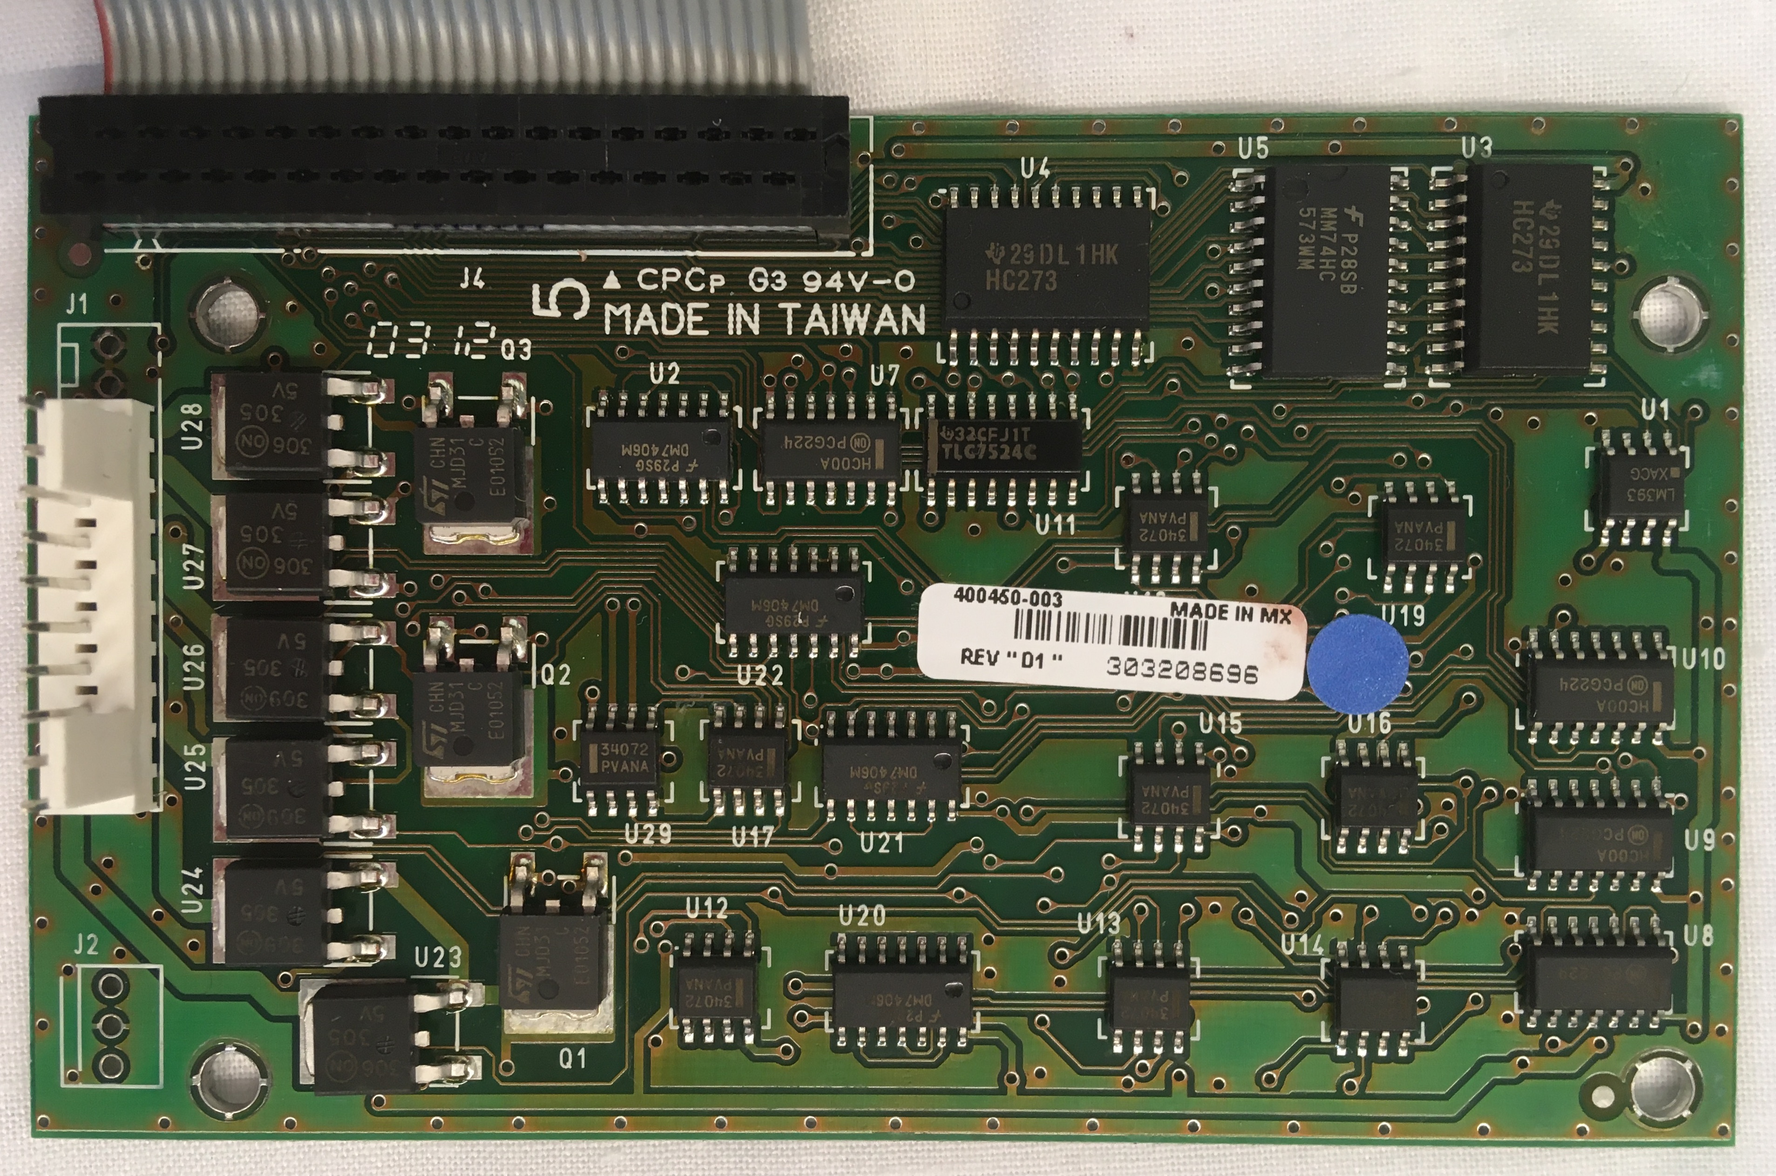
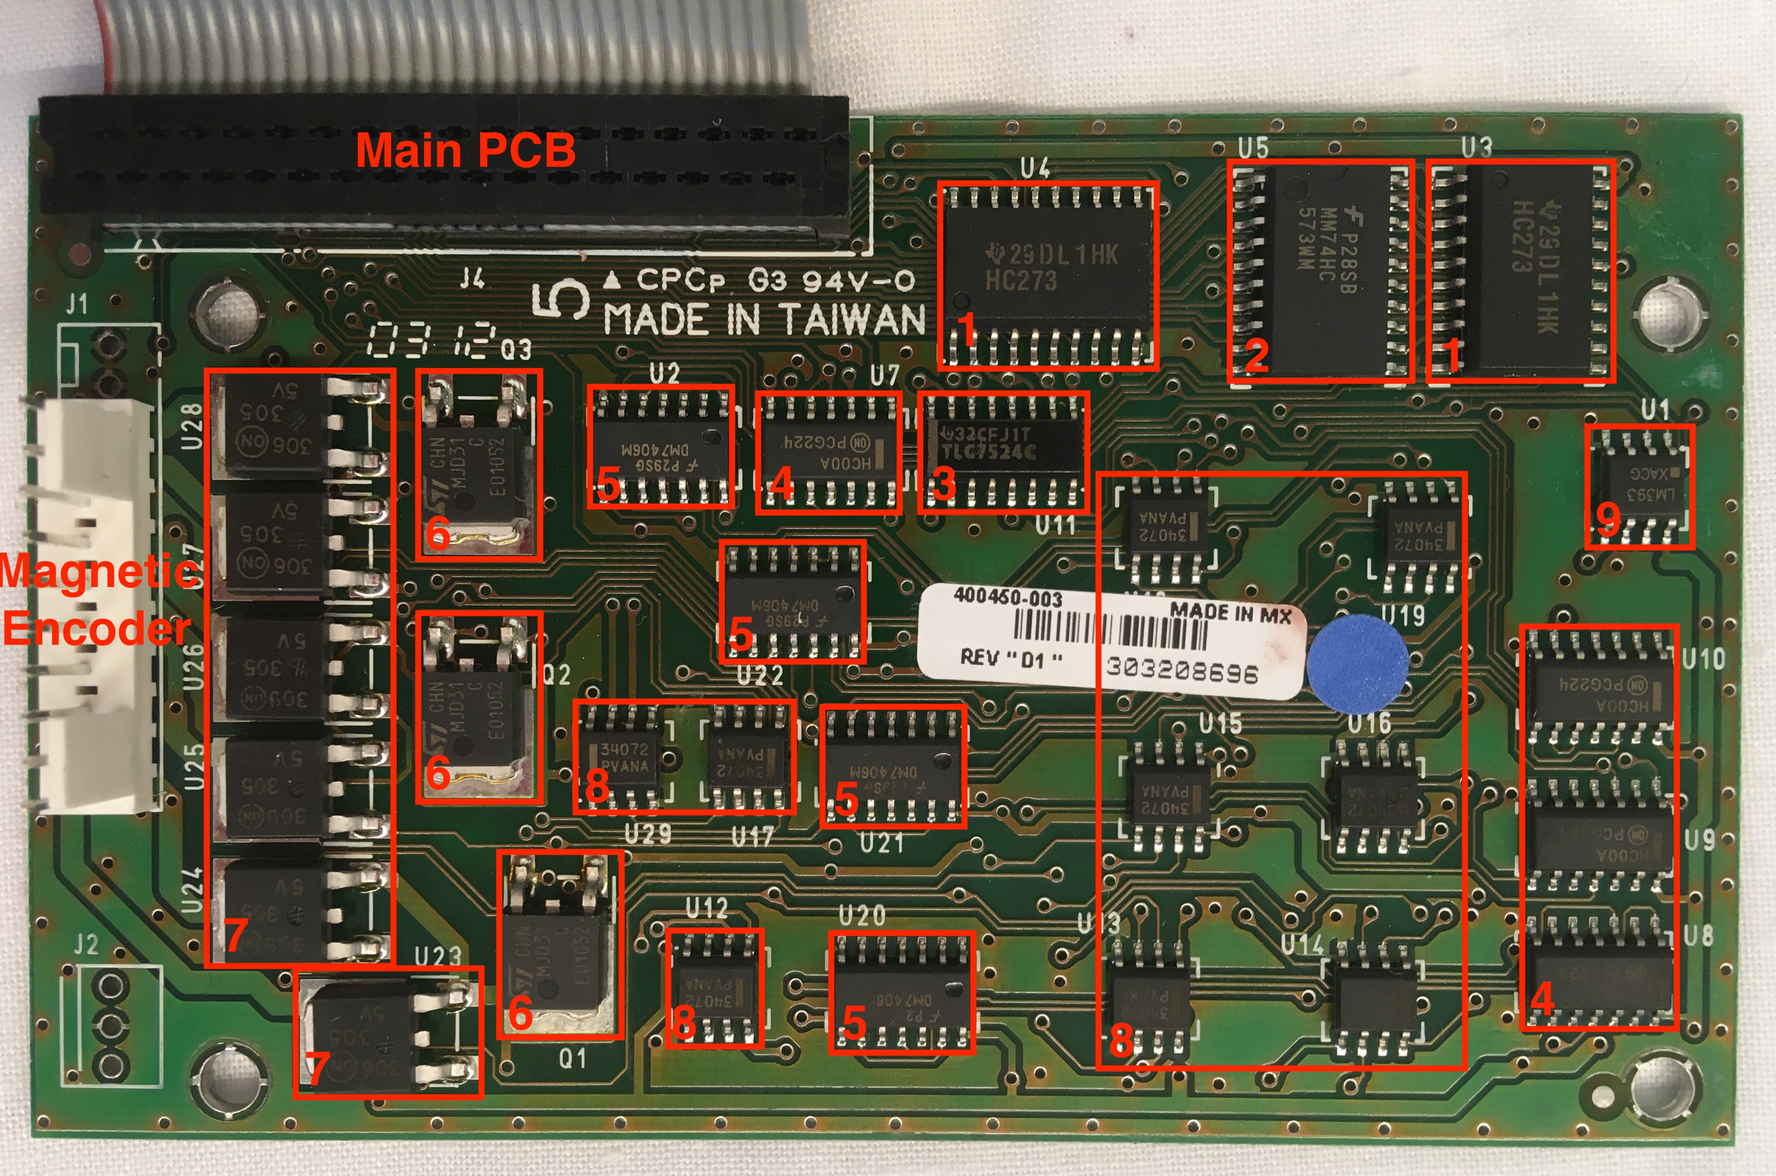
finished side PCB....

diff --git a/teardowns/IDprinter.html b/teardowns/IDprinter.html
@@ -89,7 +89,7 @@
 		</li>
 		<br>
 		<li><p>ON Semiconductor HCT574A Octal Register (<a href="https://www.onsemi.com/pdf/datasheet/mc74hct574a-d.pdf">datasheet</a>)</p>
-			<p>&emsp;&emsp;The full name of this component in the datasheet is actually "Octal 3-State Noninverting D Flip-Flop with LSTTL-Compatible Inputs". There's a lot to unpack in that name. "Octal" indicates that the register includes eight "D Flip-Flop" circuits. The D-type flip-flop circuit is a type of circuit using several logic circuits (i.e. AND, OR, NAND, NOR) to store or latch onto a binary value (1 or 0) even when the input changes. Each flip-flop will only take in a new value during the next clock cycle triggered by a clock pin connected to the register. "3-State" indicates that the outputs can be high (1), low (0), or a high impedance state which effectively disables the output from affecting anything downstream (i.e. disconnected from output bus). This special high impedance state is triggered on all flip-flops when the output enable pin on the register is set high. "Non-inverting" means that when data is read in, the same signal is then sent out. An inverting register would flip all of the binary input data, 1s would become 0s and 0s would becomes 1s. "LSTTL" stands for Low Power Schottky Transistor-Transitor Logic and likely some modification was required to make the register compatible with this more advanced lower power transistor-transistor logic (TTL) as compared to previous forms of TTL. TTL&mdash;which includes AND, OR, NAND, and NOR logic&mdash;forms the basic foundations for all computer operations. These conditional logic gates are each composed of a pair of transistors, hence the name "transistor-transistor logic".</p>
+			<p>&emsp;&emsp;The full name of this component in the datasheet is actually "Octal 3-State Noninverting D Flip-Flop with LSTTL-Compatible Inputs". There's a lot to unpack in that name. "Octal" indicates that the register includes eight "D Flip-Flop" circuits. The D-type flip-flop circuit is a type of circuit using several logic circuits (i.e. AND, OR, NAND, NOR) to store or latch onto a binary value (1 or 0) even when the input changes. Each flip-flop will only take in a new value during the next clock cycle triggered by a clock pin connected to the register. I found this <a href="https://www.youtube.com/watch?v=Hi7rK0hZnfc">YouTube video</a> helpful when trying to learn about D-type flip-flops. "3-State" indicates that the outputs can be high (1), low (0), or a high impedance state which effectively disables the output from affecting anything downstream (i.e. disconnected from output bus). This special high impedance state is triggered on all flip-flops when the output enable pin on the register is set high. "Non-inverting" means that when data is read in, the same signal is then sent out. An inverting register would flip all of the binary input data, 1s would become 0s and 0s would becomes 1s. "LSTTL" stands for Low Power Schottky Transistor-Transitor Logic and likely some modification was required to make the register compatible with this more advanced lower power transistor-transistor logic (TTL) as compared to previous forms of TTL. TTL&mdash;which includes AND, OR, NAND, and NOR logic&mdash;forms the basic foundations for all computer operations. These conditional logic gates are each composed of a pair of transistors, hence the name "transistor-transistor logic".</p>
 		</li>
 		<br>
 		<li><p>Fairchild Semiconductor HC574 Octal Register (<a href="https://www.onsemi.com/pdf/datasheet/74vhc574-d.pdf">datasheet</a>)</p>
@@ -125,11 +125,11 @@
 		</li>
 		<br>
 		<li><p>Analog Devices ADM202 CMOS Driver/Receiver (<a href="https://www.mouser.com/datasheet/2/609/ADM202-1503026.pdf">datasheet</a>)</p>
-			<p>&emsp;&emsp;The CMOS driver/receiver can transform a 5V input to a +/-10V output using a switching power supply type circuit. Unlike the tight surface mount appearance of many of the other ICs on this board, the through hole mounting of this component and its thicker body make it stand out along with a few other similarly shaped boards. Such a board with a rectangular body and parallel rows of pins on either side is often described as a Dual In-line Package (DIP). I'm not completely sure why, but the name DIP somehow sounds much more friendly and inviting than IC. Maybe it's because you can say it without having to spell it out.</p>
+			<p>&emsp;&emsp;The CMOS driver/receiver can transform a 5V input to a +/-10V output using a switching power supply type circuit. According to the technical manual, this board was responsible for the serial input/output communication with the computer connected to the board via the 25 pin connector. Unlike the tight surface mount appearance of many of the other ICs on this board, the through hole mounting of this component and its thicker body make it stand out along with a few other similarly shaped boards. Such a board with a rectangular body and parallel rows of pins on either side is often described as a Dual In-line Package (DIP). I'm not completely sure why, but the name DIP somehow sounds much more friendly and inviting than IC. Maybe it's because you can say it without having to spell it out.</p>
 		</li>
 		<br>
 		<li><p>ST Microelectronics L293B Push-Pull Four Channel Driver (<a href="https://www.mouser.com/datasheet/2/389/cd00000058-1795356.pdf">datasheet</a>)</p>
-			<p>&emsp;&emsp;The primary function of a driver is to control a high power (high voltage and high current) supply using low power logic signals. "Push-Pull" indicates that a push-pull amplifer circuit is included in this component to raise the output current so that the driver can output high power. The functionality of the push-pull and driver circuits are founded in transistors. For example, one transistor alone could be used as a driver by opening and closing a high power line in response to a control signal. A typical application of a driver is to drive motors&mdash;a high power application&mdash;using logic signals coming from a low power microcontroller or some such device. As there are four motors in the printer, it would seem likely that this four channel driver is used to drive the motors. The driver can drive the motors forward, backwards, or not at all.</p>
+			<p>&emsp;&emsp;The primary function of a driver is to control a high power (high voltage and high current) supply using low power logic signals. "Push-Pull" indicates that a push-pull amplifer circuit is included in this component to raise the output current so that the driver can output high power. The functionality of the push-pull and driver circuits are founded in transistors. For example, one transistor alone could be used as a driver by opening and closing a high power line in response to a control signal. A typical application of a driver is to drive motors&mdash;a high power application&mdash;using logic signals coming from a low power microcontroller or some such device. The driver can drive the motors forward, backwards, or not at all. As there are four motors in the printer, it would seem likely that this four channel driver is used to drive the motors. This hypothesis was confirmed upon later inspection of the over 100 page technical manual for this product. What an outstanding resource that technical manual was!</p>
 		</li>
 		<br>
 		<li><p>Texas Instruments LM339 Quad Differential Comparator (<a href="https://www.ti.com/lit/ds/symlink/lm339.pdf?ts=1624583768128&ref_url=https%253A%252F%252Fwww.ti.com%252Fproduct%252FLM339">datasheet</a>)</p>
@@ -150,7 +150,7 @@
 	</ol>
 	<br>
 	<p>&emsp;&emsp;I examined many of the ICs on this board in great depth, but not all of them. For many of the ICs, I either couldn't read the label or find information about the product by looking up the model number on the label. Furthermore, there were many other components besides the ICs which I haven't even mentioned. So before I conclude the discussion of the main PCB, I'd like to mention a few important components on this board. There are also several spots on the board that don't seem to be in use. These locations are possibly reserved for components used in other configurations of the printer. For example, there is a large MOSFET type spot with solder pads tinned, but empty. Additionally, a few of the ports weren't in use.</p>
-	<p>&emsp;&emsp;A large rectangular chip lies just below the Coldfire microcontroller with fine pitch connectors. Given these physical parameters and its proximity to the microcontroller, I would guess it's some sort of memory unit. At the bottom right corner of the board lies a long DIP with a heat sink attached on top. I'm not sure what this component does, but given how hot it must be getting maybe it's some sort of computational unit or driver for the heater. To the right of the DIP with heat sink is another voltage regulator looking component (could also be a MOSFET). If it's a voltage regulator, maybe it's used to step up the voltage for the heater. To the left of the DIP with heat sink is a large capacitor (25V 6800uF). Possibly this capacitor is used in conjunction with the heater to decouple its power draw from that of the main control board. In other words, if the heater demanded a high power draw, the capacitor would protect the control board from otherwise shutting down from the power surge. Above and below the motor driver are four diodes. Given their proximity to the motor driver, I would expect that one diode is connecting to the driving signal for each motor. Given the large inductive load of the motors, they will cause a power surge when stopped as a result of the back EMF generated by the motor coils. To prevent this power surge from damaging the transistors in the driver, the diodes provide an alternate path for the current to travel and dissipate. There are also a pair of crystal oscillators used to track time. Why there are a pair instead of just one, I cannot say.</p>
+	<p>&emsp;&emsp;A large rectangular chip lies just below the Coldfire microcontroller with fine pitch connectors. Given these physical parameters and its proximity to the microcontroller, I would guess it's some sort of memory unit. At the bottom right corner of the board lies a long DIP with a heat sink attached on top. Not being able to read the label, I initially wasn't sure what this component was. Nonetheless it seemed likely that it was some sort of computational unit or driver given how hot it was evidently getting. Thanks to the technical manual for the product, it was identified as the driver for the stepper motor. To the right of the DIP with heat sink is another voltage regulator looking component (could also be a MOSFET). If it's a voltage regulator, maybe it's used to step up the voltage for the heater. To the left of the DIP with heat sink is a large capacitor (25V 6800uF). Possibly this capacitor is used in conjunction with the heater to decouple its power draw from that of the main control board. In other words, if the heater demanded a high power draw, the capacitor would protect the control board from otherwise shutting down from the power surge. Above and below the motor driver are four diodes. Given their proximity to the motor driver, I would expect that one diode is connecting to the driving signal for each motor. Given the large inductive load of the motors, they will cause a power surge when stopped as a result of the back EMF generated by the motor coils. To prevent this power surge from damaging the transistors in the driver, the diodes provide an alternate path for the current to travel and dissipate. There are also a pair of crystal oscillators used to track time. Why there are a pair instead of just one, I cannot say.</p>
 	<p>&emsp;&emsp;For the components who's labels I could read and interpret, many of them used a similar labelling scheme. Typically, the model number was printed on one line and a manufacturing code printed on the line beneath it. The manufacturing code usually consisted of some letters&mdash;likely the location of a manufacturing facility&mdash;followed by some numbers&mdash;likely the date that product was manufactured. This date was often reported using a year-week scheme. For example, 0309 at the end of the microprocessor label to indicate the 9th work week of 2003.</p>
 	<img src="../images/teardowns/IDprinter/mainPCBback.jpg" alt="Many SMT components and One Red Wire Linking Components Across Board" class="center">
 	<p class="label">Main PCB - Bottom View</p>
@@ -167,6 +167,45 @@
 	<h3>Side PCB - for Magnetic Encoding</h3>
 	<img src="../images/teardowns/IDprinter/sidePCBfront.jpg" alt="Rectangular Green PCB with Many ICs and Transistors" class="center">
 	<p class="label">Side PCB - Top View</p>
+	<p>&emsp;&emsp;</p>
+	<ol type = "1">
+		<li><p>Texas Instruments HC273 Octal Register with Clear (<a href="https://www.ti.com/lit/ds/symlink/sn54hc273-sp.pdf?ts=1624806634909&ref_url=https%253A%252F%252Fwww.google.com%252F">datasheet</a>)</p>
+			<p>&emsp;&emsp;Like the octal registers we've seen before on the main PCB, this register contains eight D-type flip-flop circuits. Instead of having an output enable pin to trigger a third high impedance output state, the register has a clear pin. When activated this pin clears the outputs all to low and will hold them there regardless of new incoming input data. This pin has an active-low configuration (as opposed to active-high) indicating that the clearing functionality is activated when the clear pin is held low.</p>
+		</li>
+		<br>
+		<li><p>Fairchild Semiconductor MM74HC573WM Octal Register (<a href="https://www.jameco.com/Jameco/Products/ProdDS/872888.pdf">datasheet</a>)</p>
+			<p>&emsp;&emsp;This component appears functionally identical to the ON Semiconductor HC573 Octal Transparent Latch Register. It also contains an output enable pin (called "output control" this time) to trigger the high impedance state at the outputs and a latch enable pin to trigger when data is latched on to, stemming the flow of data from input to output.</p>
+		</li>
+		<br>
+		<li><p>Texas Instruments TLC7524C 8-bit DAC (<a href="https://www.ti.com/lit/ds/symlink/tlc7524.pdf?ts=1624808429398&ref_url=https%253A%252F%252Fwww.ti.com%252Fproduct%252FTLC7524">datasheet</a>)</p>
+			<p>&emsp;&emsp;This Digital-to-Analog Converter (DAC) converts an 8-bit digital (i.e. binary) signal to an analog signal (i.e. variable voltage). The 8 bit nature of this DAC means that it can output an analog signal with resolution to 256 different voltage steps. This DAC is possibly used to produce an output signal to generate a magnetic field with the appropriate magnitude during the magnetic encoding process. The DAC uses the R-2R ladder structure to exhibit its function, while also possessing a register to latch onto and store the eight bits of digital data as the analog signal is being generated. The basic principle of the R-2R ladder structure uses a cascade or "ladder" of resistor connections with relative magnitudes R and 2R. Digital signals introduced earlier in this ladder will contribute less to the output voltage signal as the voltage they output is progressively divided moving down the ladder. In other words, the digital signals introduced first compose the least significant bytes of the output signal.</p>
+		</li>
+		<br>
+		<li><p>ON Semiconductor HC00A Quadruple NAND Gate (<a href="https://www.onsemi.com/pdf/datasheet/mc74hc00a-d.pdf">datasheet</a>)</p>
+			<p>&emsp;&emsp;This quadruple NAND gate looks identical in pinout to the previous NAND gates discussed on the main control board. Each IC has 14 pins. Each NAND gate includes two input pins and one output pins, resulting in 12 pins for all four NAND gates. The final two pins are input voltage and ground pins.</p>
+		</li>
+		<br>
+		<li><p>Fairchild Semiconductor DM7406M Hex Inverter (<a href="https://www.jameco.com/Jameco/Products/ProdDS/49091.pdf">datasheet</a>)</p>
+			<p>&emsp;&emsp;This hex inverter looks identical in pinout to the previous hex inverter discussed on the main control board. Each IC has 14 pins. Each inverter includes one input pin and out output pin, resulting in 12 pins for all six inverters. The final two pins are input voltage and ground pins.</p>
+		</li>
+		<br>
+		<li><p>ST Microelectronics MJD31C NPN Power Transistor (<a href="https://alltransistors.com/adv/pdfview.php?doc=mjd31c.pdf&dire=_st">datasheet</a>)</p>
+			<p>&emsp;&emsp; There are many different types of transistors, but all make use of p-type and n-type semiconductors. P-type semiconductors are doped with certain compounds to have larger hole concentration than electron concentration while the opposite is true for n-type semiconductors. This results in the two types of semiconductors carrying different amounts of relative charge. In this NPN bipolar transistor, p-type semiconductor is sandwiched between n-type semiconductor as the name suggests. When no voltage is applied to the base pin of the transistor, current cannot flow through the transistor between the collector and emitter pins. However, when a small positive voltage is applied to the base pin, current is allowed to flow through the transistor from collector to emitter pins (convential current flow). On the other hand, its counterpart the PNP bipolar transistor only allows current to flow through the transistor when a negative voltage is applied to the base pin. It was interesting to note how this component was soldered to the board. Instead of soldering the middle pin of the transistor to a pad on the board, the middle was shortened and the conductive metal base of the transistor was soldered to the board. The datasheet described this manufacturing method as the "'base island' layout". This method appears slightly more difficult to assemble, but possibly results in better heat transfer properties away from the power transistor which is likely to get much hotter than a logical transistor as higher levels of current flow through it.</p>
+		</li>
+		<br>
+		<li><p>ON Semiconductor 5V Voltage Regulator</p>
+			<p>&emsp;&emsp;Although the numbered labels didn't return any information, the 5V label and component structure would seem to indicate that these products are 5V voltage regulators. An ON Semiconductor <a href="https://www.onsemi.com/pdf/datasheet/mc7800-d.pdf">datasheet</a> for 5V linear voltage regulators shows a very similar looking component seeming to confirm this hypothesis. The 5V voltage regulator functions by stepping down any voltage from some range&mdash;possibly 5-24V&mdash;down to approximately 5V. The outputs from these voltage regulators appear to be heading to the magnetic encoder on some thick high current traces. It seems odd to have voltage regulators when the rest of the board is already at 5V unless the power is supplied by the 24 voltage line heading to the main control board. The need for so many of these voltage regulators is possibly due to the current limitations of each voltage regulator. So instead of running a large current through one powerful voltage regulator, slightly smaller but still significant currents can be run through several voltage regulators in parallel. Since the magnitude of a magnetic field generated around current flow in a wire is proportional to the amount of current flow, it's possible that high current flow is required for the magnetic encoder to create a sufficiently strong magnetic field to read and write to the magnetic strip of the card.</p>
+		</li>
+		<br>
+		<li><p>ON Semiconductor 34072 Operational Amplifier (<a href="https://www.mouser.com/datasheet/2/308/1/MC34071_D-2315538.pdf">datasheet</a>)</p>
+			<p>&emsp;&emsp;This operational amplifier (op amp) is likely used to amplify the signal output by the DAC to a higher voltage than those provided by the 5V binary logic input into the DAC. This would be accomplished through a negative feedback arrangment where the output of the op amp is connected via a resistor back to the inverting input. The value of this resistor determines the magnitude by which the signal is amplified through the op amp.</p>
+		</li>
+		<br>
+		<li><p>ON Semiconductor LM393 Dual Voltage Comparator (<a href="https://www.onsemi.com/pdf/datasheet/lm393-d.pdf">datasheet</a>)</p>
+			<p>&emsp;&emsp;This voltage comparator is possibly used to detect if the magnetic encoder unit is overheating so that it can be shutdown safely before causing damage to the product. This seems a likely concern given the size of the high current traces feeding into the port where the magnetic encoder wires connect.</p>
+		</li>
+		<br>
+	</ol>
 	<img src="../images/teardowns/IDprinter/sidePCBback.jpg" alt="Many SMT components and Vias Across Board" class="center">
 	<p class="label">Side PCB - Bottom View</p>
 </section>
@@ -284,7 +323,7 @@
 		<img src="../images/teardowns/IDprinter/magneticEncoderBottom.jpg" alt="Several Wires Entering Below Metal Piece Through Epoxy Glue and Several Wires Entering PCB">
 		<p class="label">Magnetic Encoder - Bottom View</p>
 	</div>
-
+	<p>&emps;&emps;The magnetic encoder unit contains a read/write head and there must be a nearby or included card sensor. The encoder reads after writing to assure a reliable result. Encoding occurs on all 3 tracks as the card passes over the encoder unit.</p>
 	<img src="../images/teardowns/IDprinter/mechanismExploded.jpg" alt="Roller Driving System and Heating Element System Components Disassembled from Body Back Half" class="center">
 	<p class="label">Printer Mechanism Exploded View</p>
 
@@ -329,6 +368,7 @@
 <hr>
 <section>
 	<h3>Conclusion</h3>
+	<p>Parts were made from all around the world: France, Taiwan, Mexico, U.S.</p>
 	<img src="../images/teardowns/IDprinter/salvagedTreasure.jpg" alt="Motors, Belts, Gears, Springs, Bolts, Nuts, Washers, Bearings, and Shafts" class="center">
 	<p class="label">Salvaged Parts</p>
 </section>
